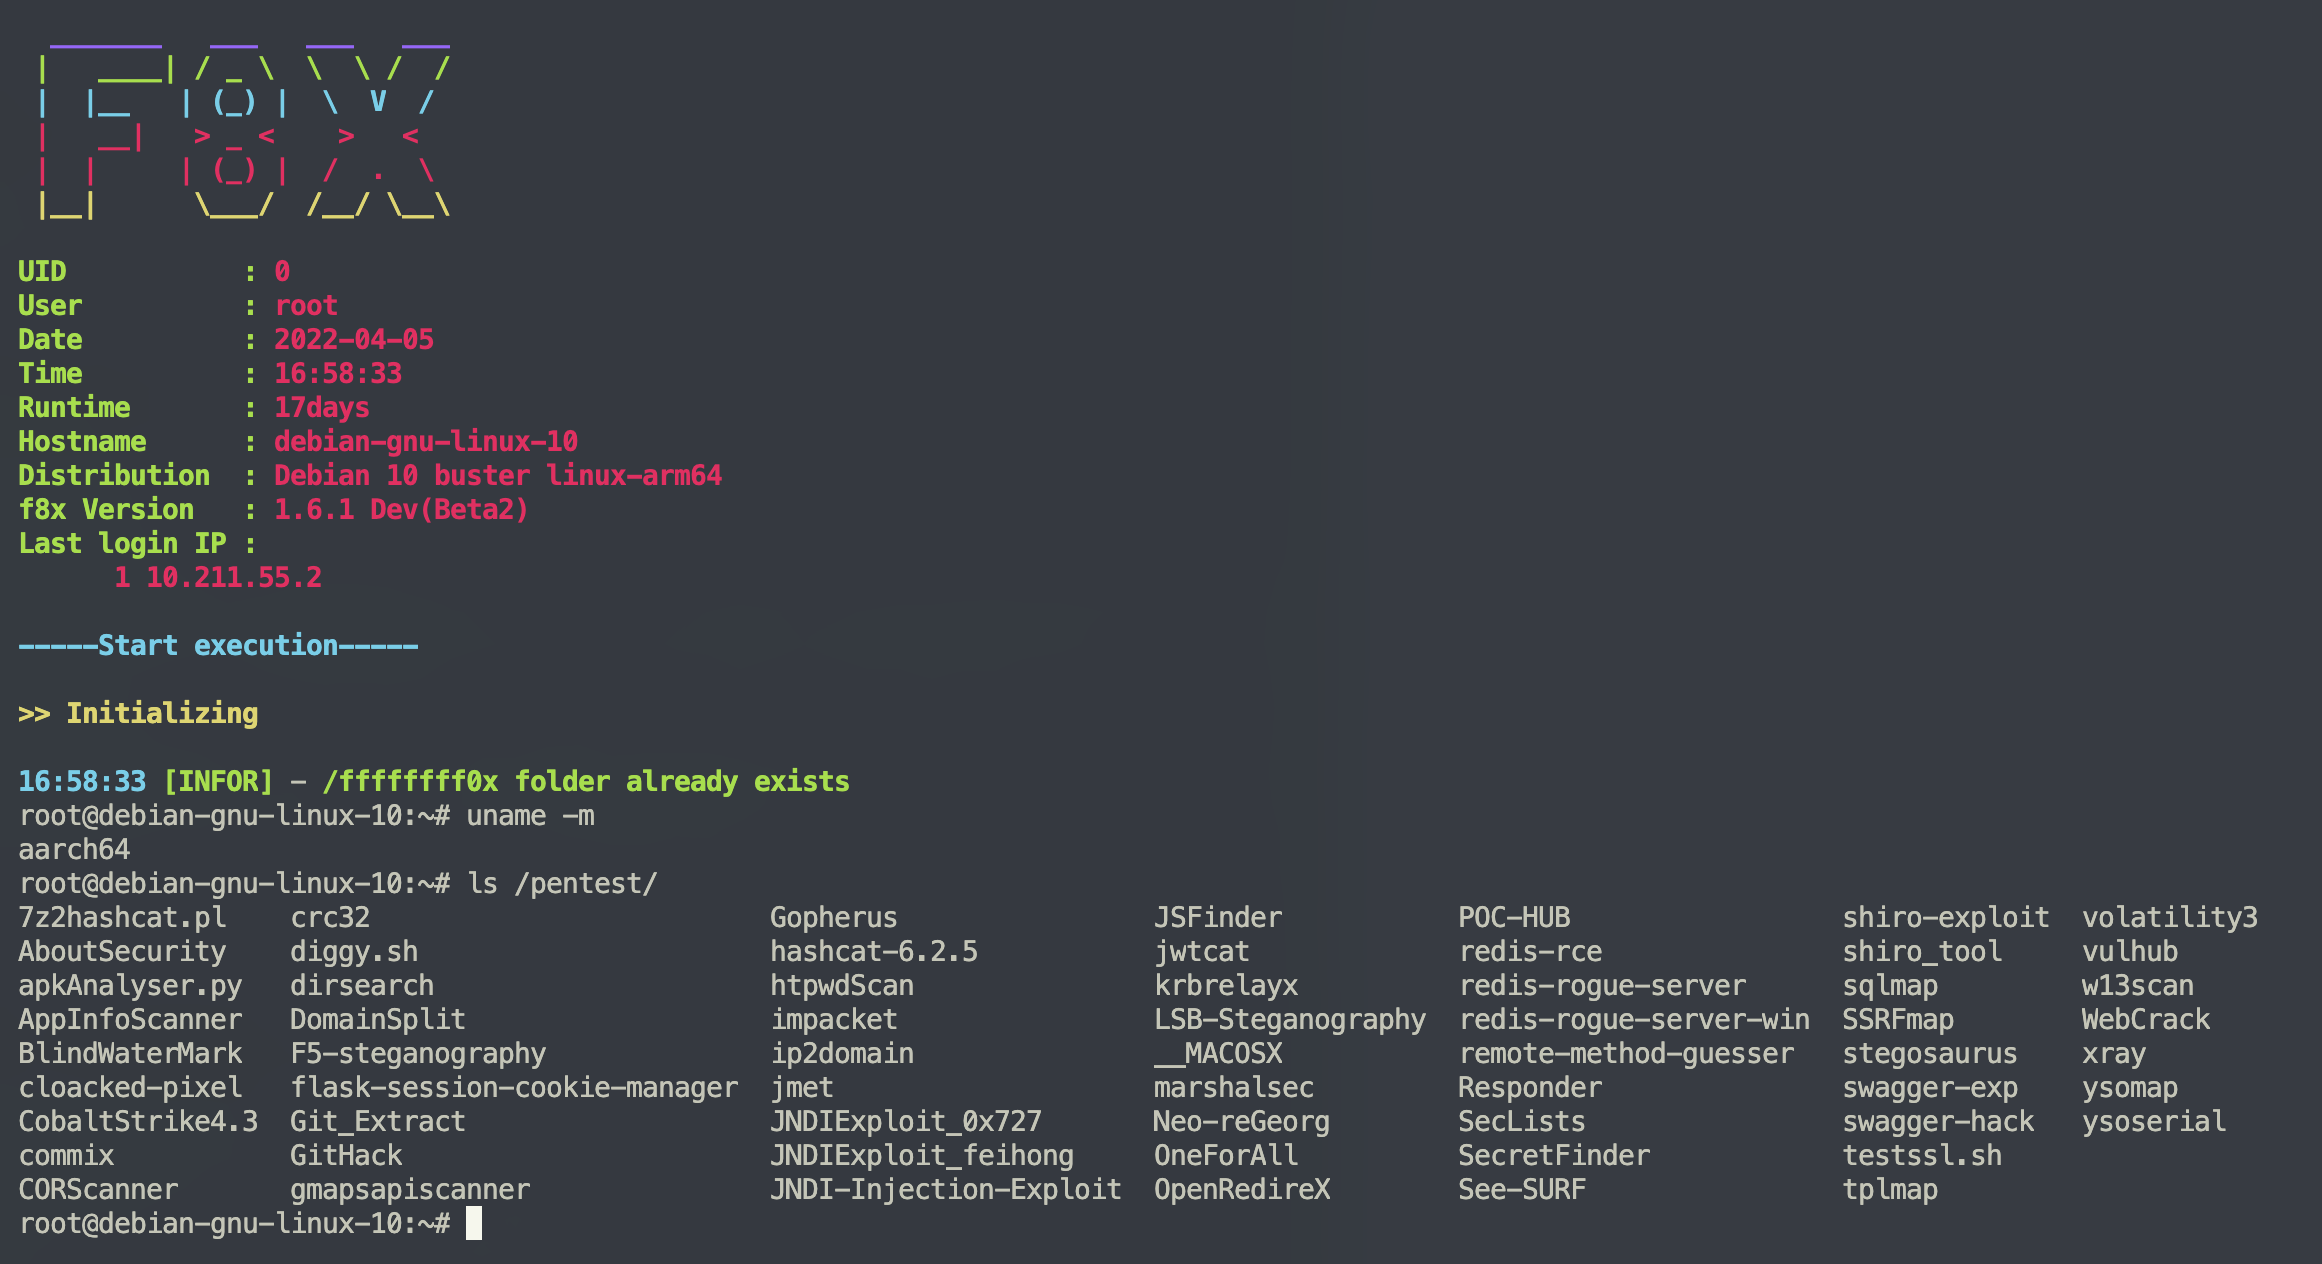
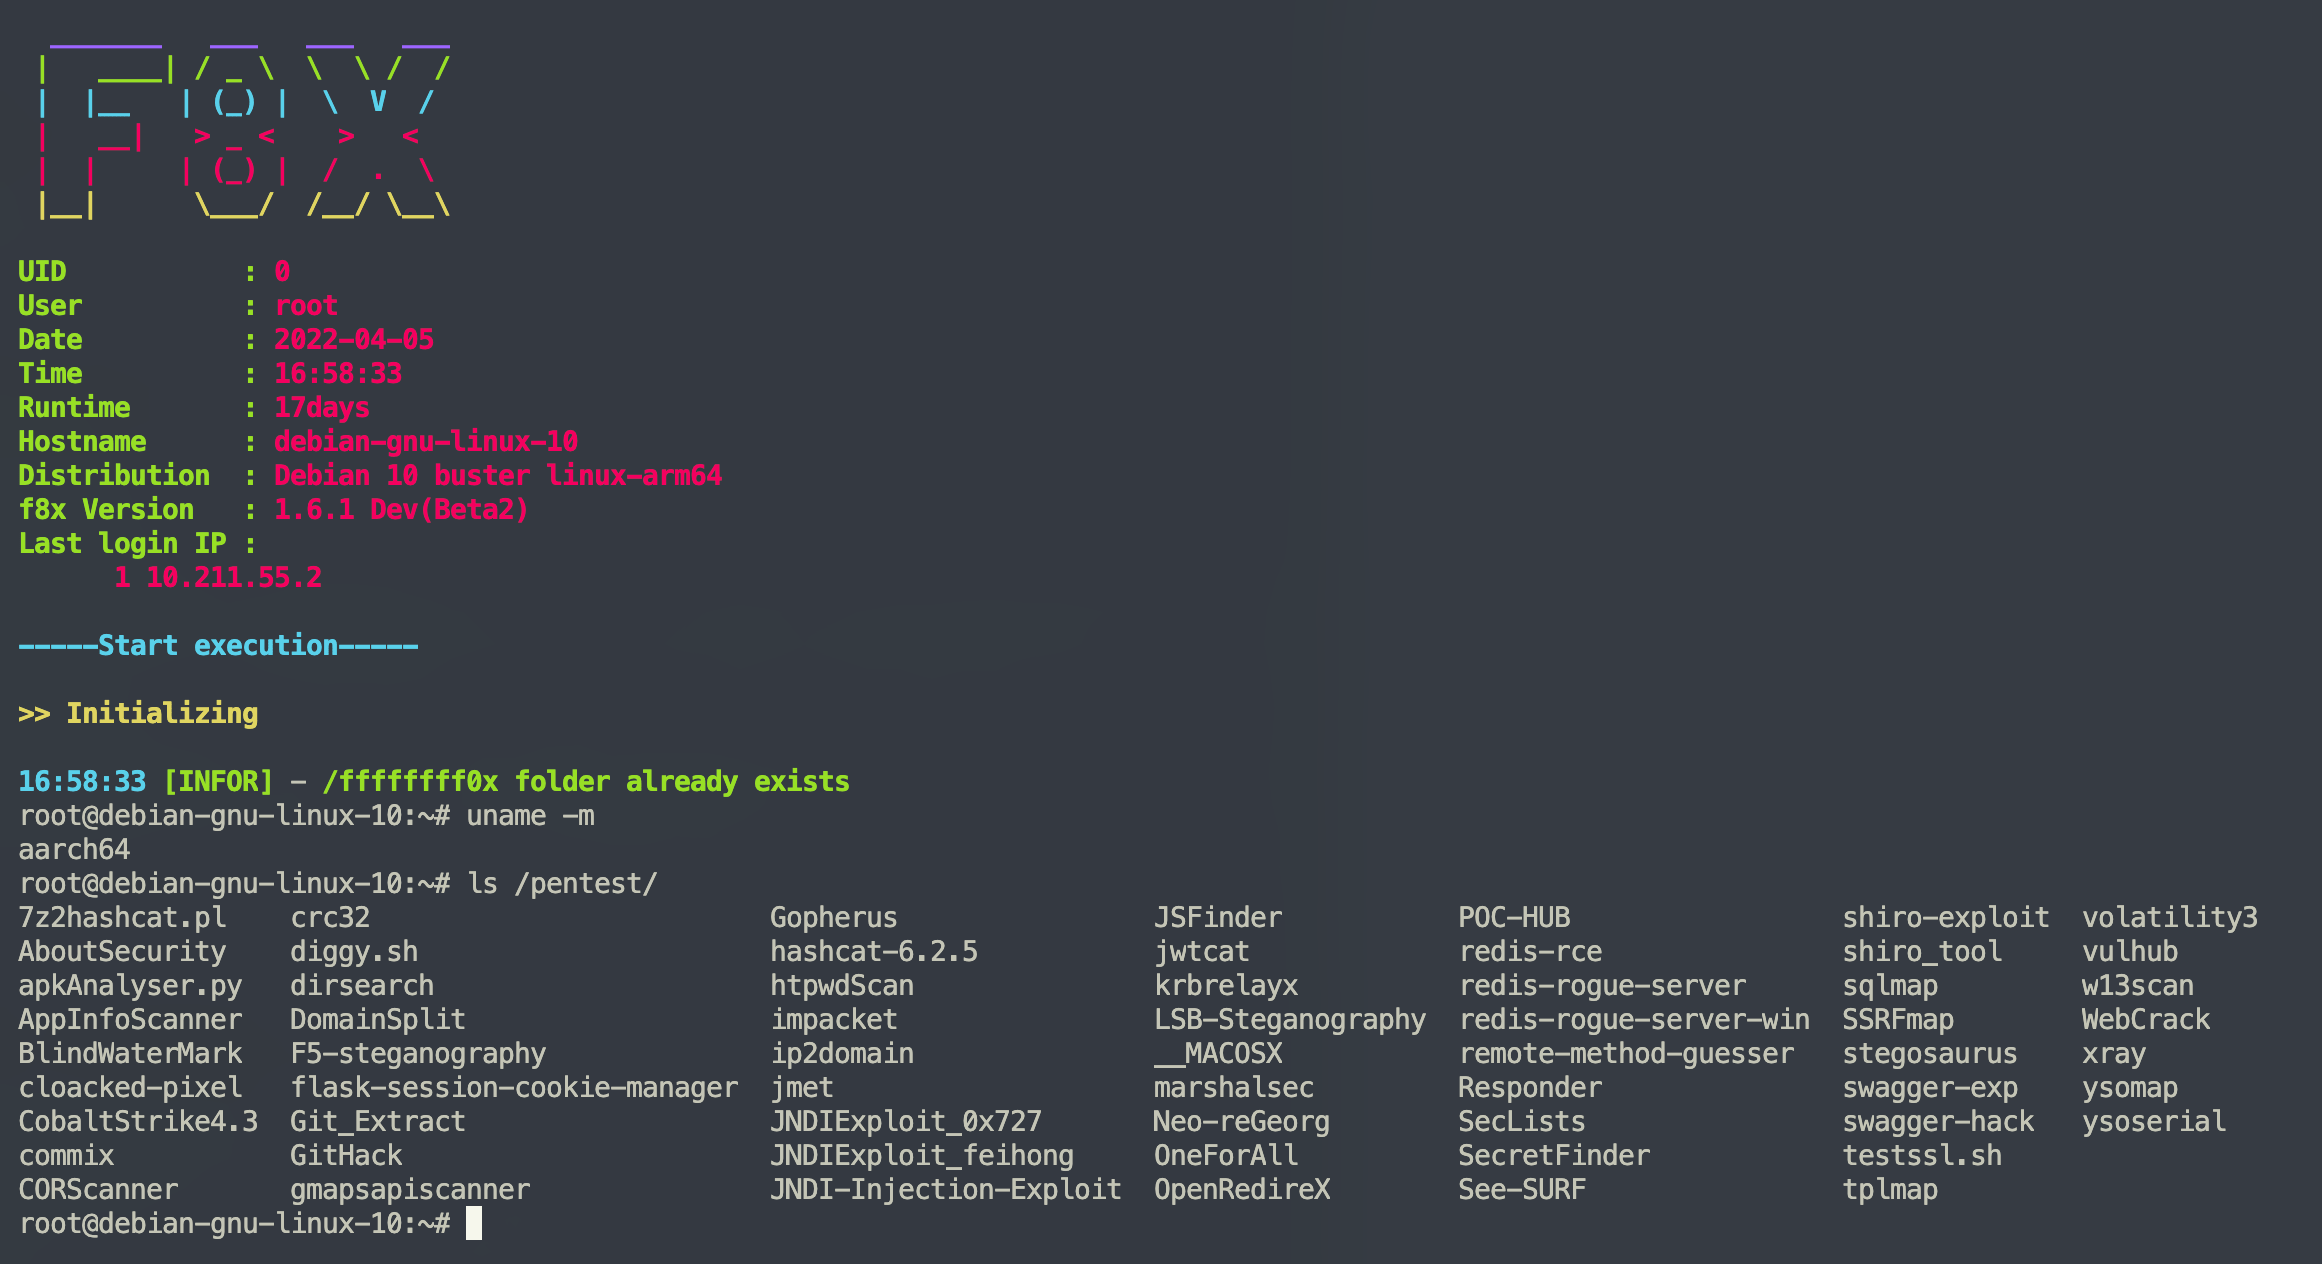
update 2022年 4月 5日 星期二 17时27分43秒 CST

diff --git a/content/post/mac-m1.md b/content/post/mac-m1.md
@@ -26,7 +26,7 @@ author: "r0fus0d"
 
 以 f8x 中的渗透工具为例，在 mac 上基本都可以安装，就算有个别确实安装不了，在 linux 虚拟机上也是可以运行的，目前 f8x 已支持在 linux arm 架构上进行安装
 
-![](../img/mac-m1/1.png)
+![](../../img/mac-m1/1.png)
 
 ---
 
@@ -34,9 +34,9 @@ author: "r0fus0d"
 
 可以，前提是你需要(购买/弄到) Parallels 虚拟机软件
 
-![](../img/mac-m1/2.png)
+![](../../img/mac-m1/2.png)
 
-![](../img/mac-m1/3.png)
+![](../../img/mac-m1/3.png)
 
 而且目前只能运行 windows11 arm 虚拟机，其他windows版本都不行
 
